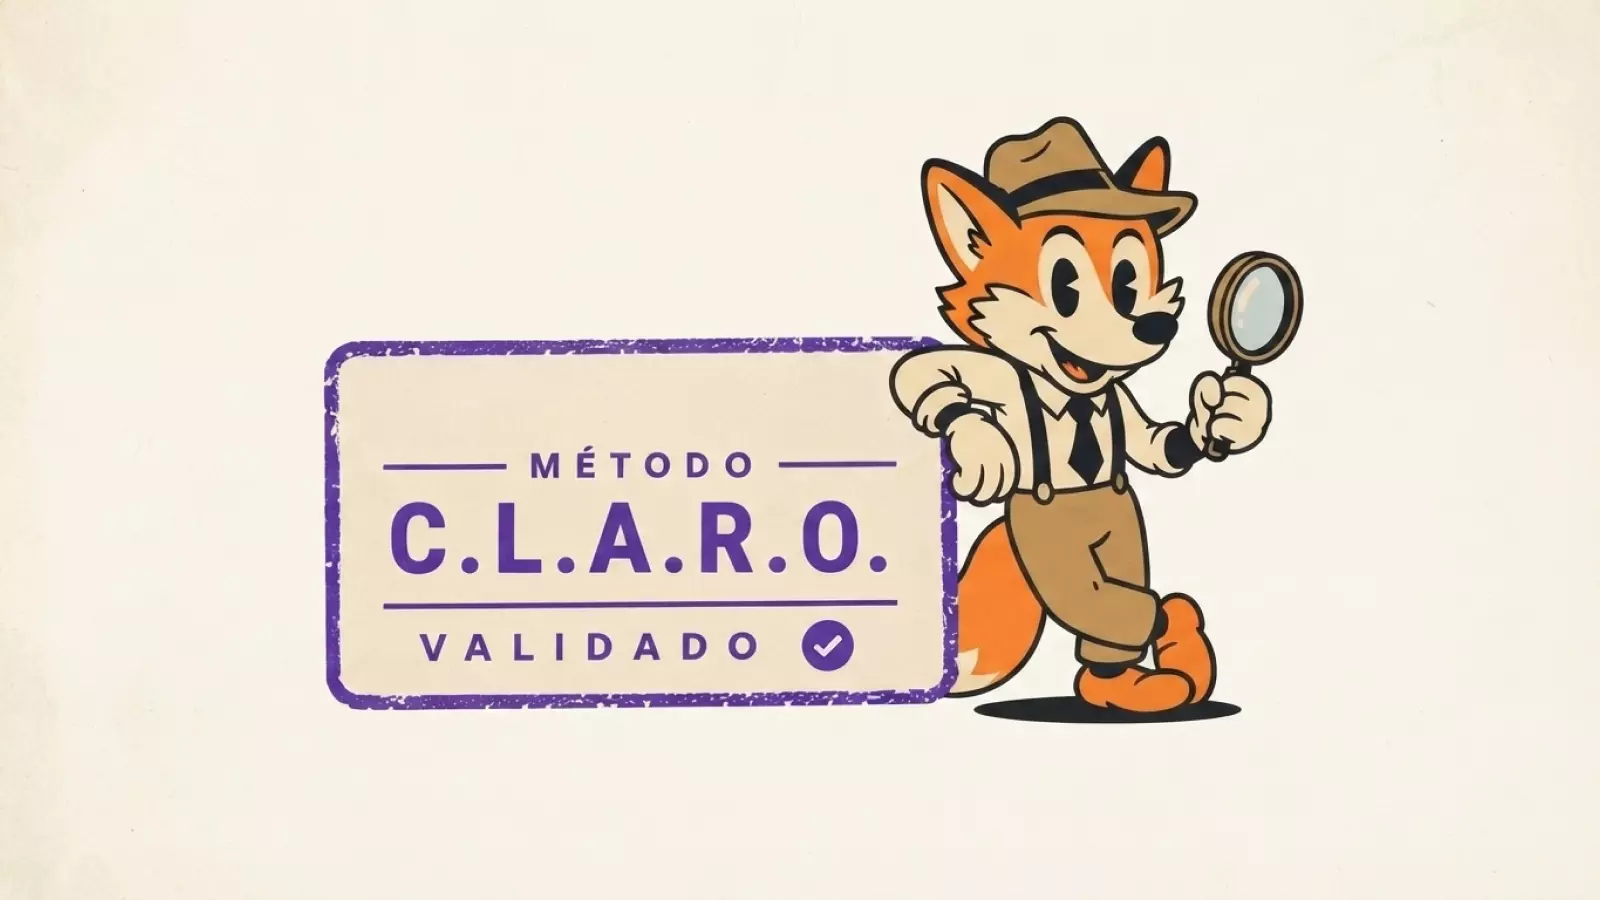
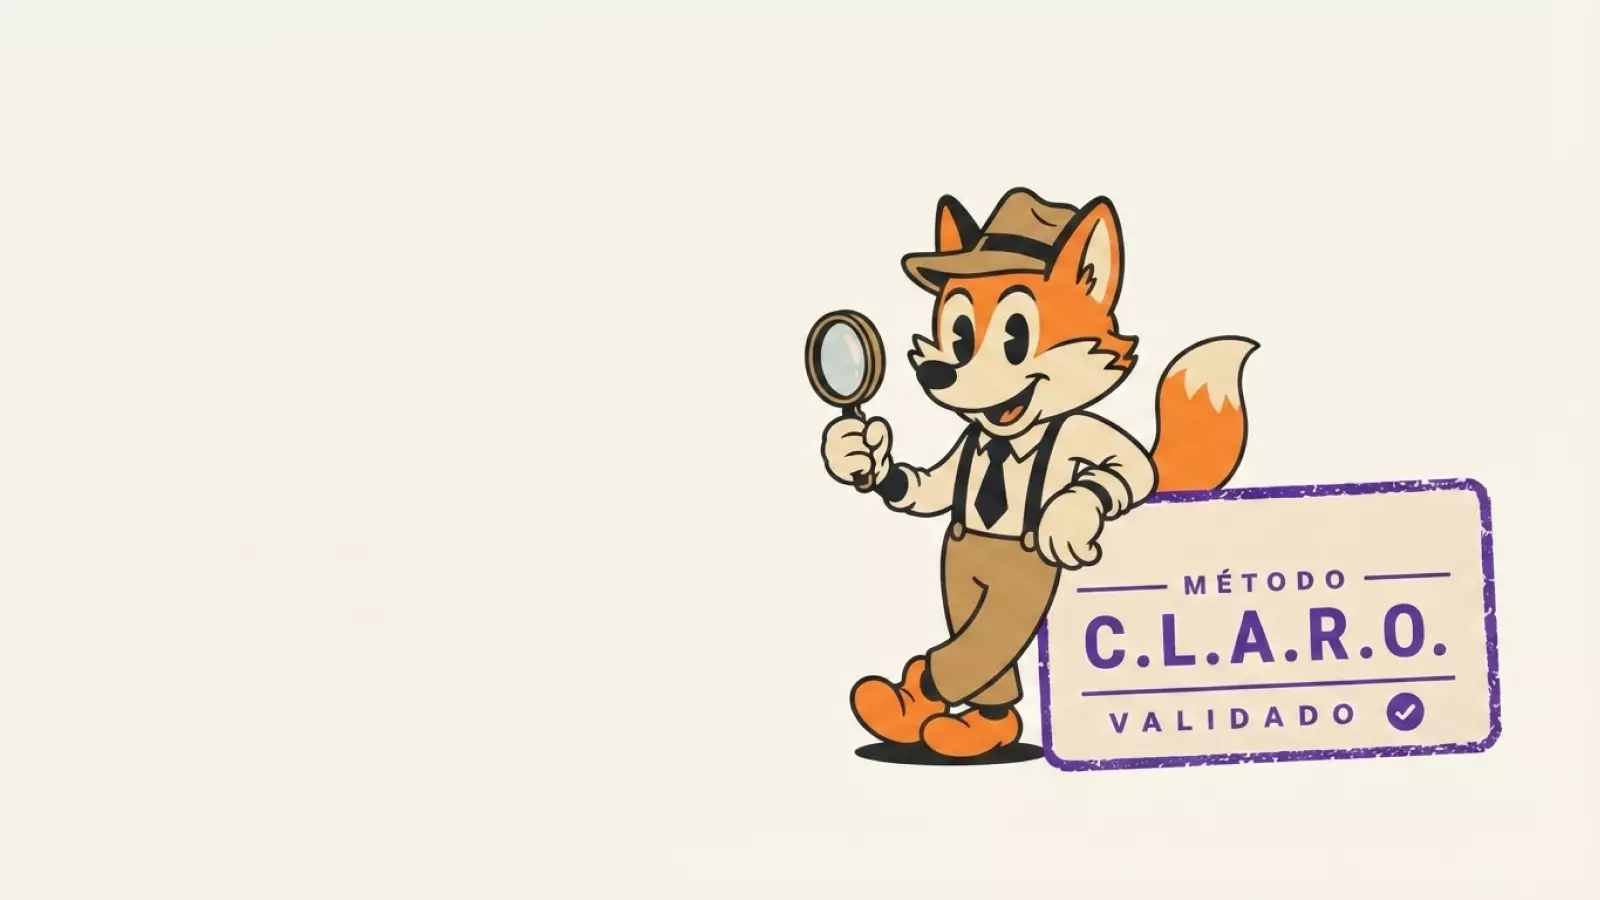
Refactor code structure for improved readability and maintainability

Changed region(s): [[0.1875, 0.1244, 0.9375, 0.8711], [0.0, 0.9644, 0.0312, 0.9956], [0.0, 0.0, 0.0312, 0.0311]]

diff --git a/src/styles/global.css b/src/styles/global.css
@@ -2436,18 +2436,20 @@ h3 {
 /* Diagnostico C.L.A.R.O. */
 
 .claro-diagnostic-hero {
-  overflow: hidden;
-  background: var(--surface-warm);
+  height: clamp(360px, 56.25vw, 760px);
+  background-color: var(--surface-warm);
+  background-image: url("/assets/images/metodo_claro_binho.webp");
+  background-position: center;
+  background-repeat: no-repeat;
+  background-size: cover;
   border-bottom: 1px solid var(--border-soft);
 }
 
-.claro-diagnostic-hero-layout {
-  display: grid;
-  min-height: min(760px, calc(100vh - 76px));
-  grid-template-columns: minmax(0, 1.05fr) minmax(360px, 0.95fr);
-  gap: var(--space-10);
-  align-items: center;
-  padding-block: clamp(var(--space-10), 9vw, 120px);
+.claro-diagnostic-hero-content {
+  display: flex;
+  height: 100%;
+  align-items: flex-start;
+  padding-top: clamp(var(--space-8), 7vw, 96px);
 }
 
 .claro-diagnostic-copy {
@@ -2464,36 +2466,6 @@ h3 {
 .claro-diagnostic-copy .lead {
   max-width: 60ch;
   margin: 0;
-}
-
-.claro-diagnostic-anchor {
-  display: inline-flex;
-  min-height: 48px;
-  align-items: center;
-  justify-content: center;
-  padding: 12px 22px;
-  border-radius: var(--radius-md);
-  background: var(--fg);
-  color: var(--bg);
-  font-weight: 700;
-  transition: transform var(--motion-fast) var(--ease-standard);
-}
-
-.claro-diagnostic-anchor:hover {
-  transform: translateY(-2px);
-}
-
-.claro-diagnostic-visual {
-  align-self: end;
-  margin: 0;
-}
-
-.claro-diagnostic-visual img {
-  display: block;
-  width: 100%;
-  max-height: 650px;
-  object-fit: contain;
-  object-position: center bottom;
 }
 
 .claro-diagnostic-form-section {
@@ -2575,22 +2547,12 @@ h3 {
 }
 
 @media (max-width: 900px) {
-  .claro-diagnostic-hero-layout,
   .claro-diagnostic-form-layout {
     grid-template-columns: 1fr;
   }
 
-  .claro-diagnostic-hero-layout {
-    padding-bottom: 0;
-  }
-
   .claro-diagnostic-copy h1 {
     max-width: 16ch;
-  }
-
-  .claro-diagnostic-visual {
-    width: min(100%, 580px);
-    margin-inline: auto;
   }
 
   .claro-diagnostic-form-copy {
@@ -2600,10 +2562,17 @@ h3 {
 }
 
 @media (max-width: 640px) {
-  .claro-diagnostic-hero-layout {
-    gap: var(--space-6);
-    min-height: auto;
-    padding-top: var(--space-10);
+  .claro-diagnostic-hero {
+    height: min(177.78vw, 860px);
+    background-image: url("/assets/images/metodo_claro_binho_mobile.webp");
+  }
+
+  .claro-diagnostic-hero-content {
+    padding-top: var(--space-8);
+  }
+
+  .claro-diagnostic-hero .claro-diagnostic-copy {
+    max-width: 92%;
   }
 
   .claro-diagnostic-copy {

diff --git a/src/pages/ClaroDiagnostic/ClaroDiagnostic.jsx b/src/pages/ClaroDiagnostic/ClaroDiagnostic.jsx
@@ -60,31 +60,18 @@ export default function ClaroDiagnostic() {
 
       <Layout>
         <section className="claro-diagnostic-hero" aria-labelledby="claro-diagnostic-title">
-          <div className="container claro-diagnostic-hero-layout">
+          <div className="container claro-diagnostic-hero-content">
             <div className="claro-diagnostic-copy">
               <p className="eyebrow">Diagnóstico estratégico</p>
               <h1 id="claro-diagnostic-title">
-                Descubra o que impede seu site de ser mais claro e eficiente.
+                Criação de sites com clareza e resultado.
               </h1>
               <p className="lead">
                 Solicite o diagnóstico C.L.A.R.O. e receba uma análise inicial da sua
                 presença digital, considerando clareza, lógica, acessibilidade,
                 relevância e otimização.
               </p>
-              <a className="claro-diagnostic-anchor" href="#solicitar-diagnostico">
-                Solicitar diagnóstico
-              </a>
             </div>
-
-            <figure className="claro-diagnostic-visual">
-              <img
-                src="/assets/images/metodo_claro_binho.webp"
-                alt="Personagem do método C.L.A.R.O. apresentando o diagnóstico de sites"
-                width="640"
-                height="640"
-                fetchPriority="high"
-              />
-            </figure>
           </div>
         </section>
 